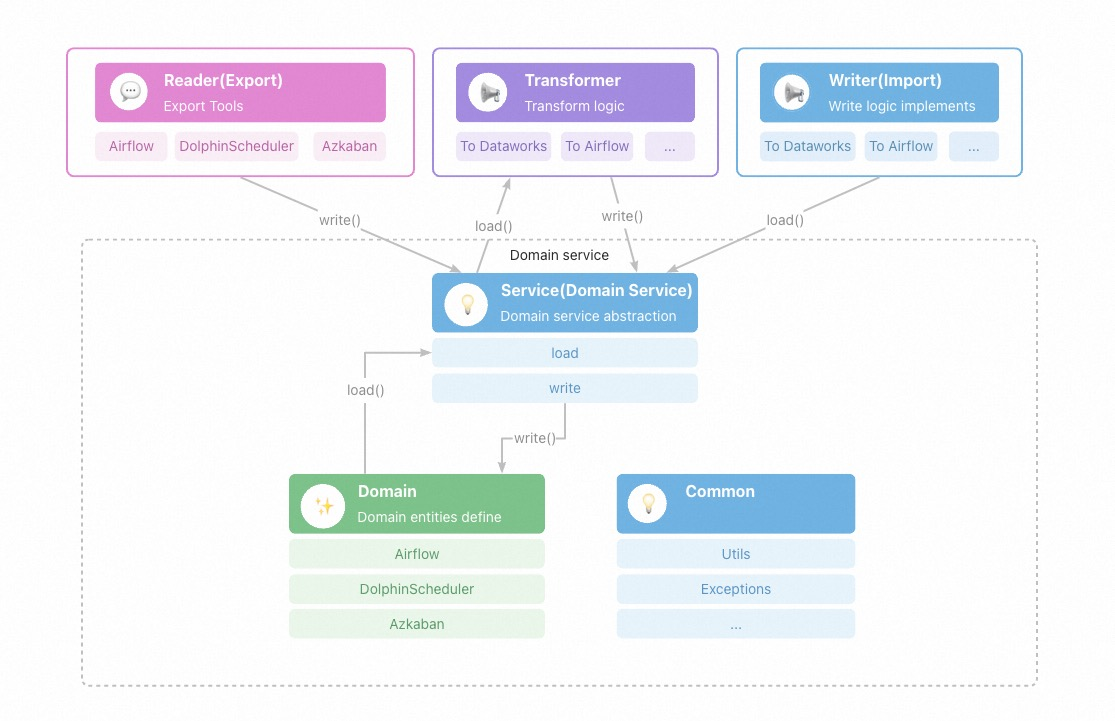
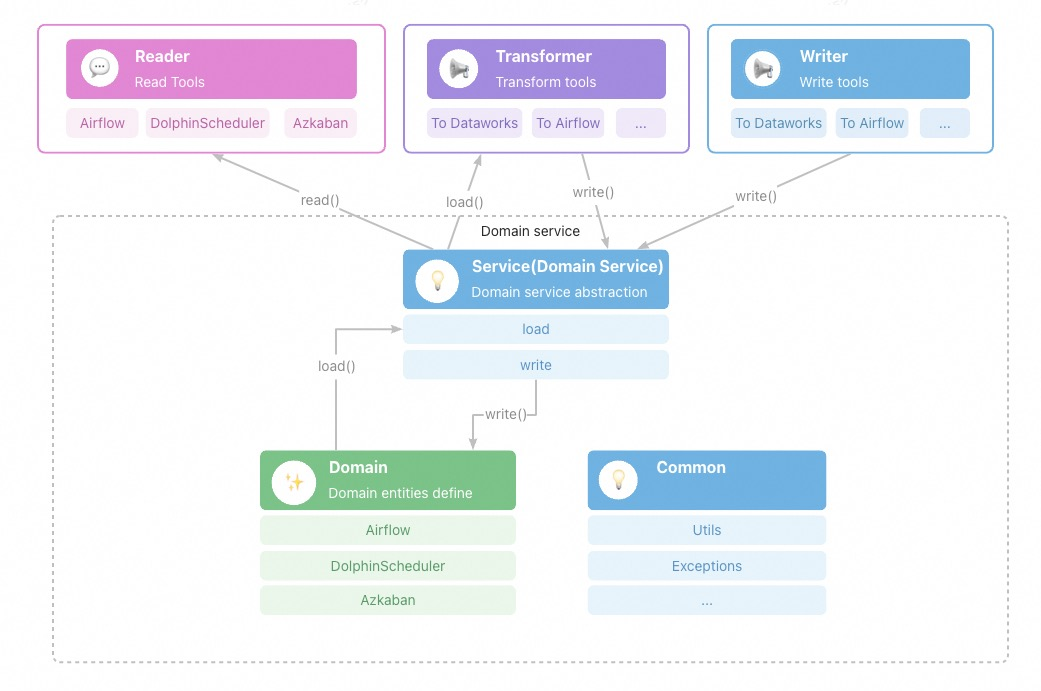
update architecture images

diff --git a/docs/migrationx/index.md b/docs/migrationx/index.md
@@ -4,7 +4,7 @@
 * 实现支持开源工作流引擎到之间的模型转换
 
 # 概要设计 
-![image](../images/architecture.jpg)
+![image](../images/architecture-cn.jpg)
 
 ## Domain（领域模型）
 不同开源调度引擎有自己不同的工作流领域模型。
